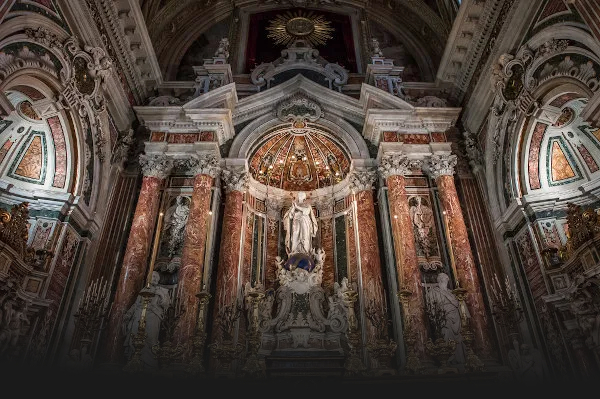
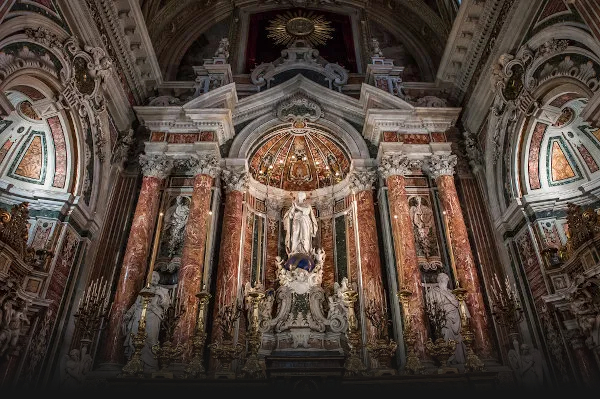
Página inicial

diff --git a/index.html b/index.html
@@ -8,19 +8,46 @@
     <link rel="stylesheet" href="styles/style.css">
 </head>
 <body>
-    <header class="cabecario">
-        <nav class="cabecario__nav">
-            <a class="cabecario__link" href="pages/definicao.html">Onde surgiu?</a>
-            <a class="cabecario__link" href="pages/definicao.html">O que é?</a>
-            <a class="cabecario__link" href="index.html"><img class="cabecario__img" src="img/home.png" alt="Ínicio"></a>
-            <a class="cabecario__link" href="pages/autores.html">Principais autores</a>
-            <a class="cabecario__link" href="pages/obras.html">Obras barrocas</a>
-        </nav>
-    </header>
-    <section class="tema">
-        <h1 class="tema__titulo">Barroco</h1>
-        <p class="tema__texto">Trabalho sobre a escola literária barroca</p>
-    </section>
+    <div class="background">
+        <header class="cabecario">
+            <nav class="cabecario__nav">
+                <a class="cabecario__link" href="pages/definicao.html">Onde surgiu?</a>
+                <a class="cabecario__link" href="pages/definicao.html">O que é?</a>
+                <a class="cabecario__link" href="index.html"><img class="cabecario__img" src="img/home.png" alt="Ínicio"></a>
+                <a class="cabecario__link" href="pages/autores.html">Principais autores</a>
+                <a class="cabecario__link" href="pages/obras.html">Obras barrocas</a>
+            </nav>
+        </header>
+        <section class="tema">
+            <h1 class="tema__titulo">Barroco</h1>
+            <p class="tema__texto">Trabalho sobre a escola literária barroca</p>
+        </section>
+    </div>
+    <main class="conteudo">
+        <div class="sobre">
+            <h2 class="sobre__titulo">Sobre o trabalho:</h2>
+            <p class="sobre__texto">Nesse trabalho iremos falar sobre a escola literária barroco, e destrinchar tudo sobre essa escola literária, como o surgimento, informações sobre, autores e algumas obras.</p>
+        </div>
+        <div class="resumo">
+            <h2 class="resumo__titulo">Resumo sobre barroco:</h2>
+            <ul class="resumo__lista">
+                <li class="resumo__lista-item">
+                    <p class="resumo__texto"><strong class="texto-forte">Principais caracteristicas: </strong>As principais características são: a utilização de cores vibrantes, o uso de luz e sombra, a criação de efeitos dramáticos e a preferência por formas orgânicas e sinuosas. Além disso, as obras barrocas costumam ter temas religiosos.</p>
+                </li>
+                <li class="resumo__lista-item">
+                    <p class="resumo__texto"><strong class="texto-forte">Sobre o barroco: </strong>Barroco é o estilo artístico que floresceu entre o final do século XVI e meados do século XVIII, inicialmente na Itália, difundindo-se em seguida pelos países católicos da Europa e da América, antes de atingir, em uma forma modificada, as áreas protestantes e alguns pontos do Oriente.</p>
+                </li>
+                <li class="resumo__lista-item">
+                    <p class="resumo__texto"><strong class="texto-forte">Origem do barroco: </strong>As manifestações artísticas consideradas barrocas foram produzidas principalmente no século XVII. O traço principal do estilo barroco é a tensão entre espírito e matéria, céu e terra, razão e emotividade, contenção e derramamento, cientificismo e religiosidade</p>
+                </li>
+            </ul>
+        </div>
+    </main>
 
+    <hr/>
+
+    <footer class="rodape">
+        <p class="rodape__texto"><strong class="texto-forte-rodape">Trabalho desenvolvido por:</strong> Arthur, Rebeca, Leticia, Hiago, Maria Fernanda, Matheus, Silas, Antonielle, Gabriela, Isalayla, Ligia, Livia Vitória.</p>
+    </footer>
 </body>
 </html>

diff --git a/styles/style.css b/styles/style.css
@@ -1,5 +1,7 @@
 @import url(cabecario.css);
 @import url(tema.css);
+@import url(resumo.css);
+@import url(rodape.css);
 @import url('https://fonts.googleapis.com/css2?family=DM+Serif+Text:ital@0;1&family=Inter:ital,opsz,wght@0,14..32,100..900;1,14..32,100..900&family=Poppins:wght@300;400;500;700&family=Roboto:ital,wght@0,100;0,300;0,400;0,500;0,700;0,900;1,100;1,300;1,400;1,500;1,700;1,900&display=swap');
 
 * {
@@ -10,18 +12,27 @@
 }
 
 :root {
-    --branco: #F6F6F6;
-    --preto: #1A1A1A;
+    --branco: #EEEEEE;
+    --preto: #151515;
     --preto-escuro: #000000;
     --marrom: #6F4E37;
+    --vermelho-forte: #A91D3A;
 
     --fonte-principal: "Roboto", sans-serif;
-    --fonte-tema: "DM Serif Text", serif;
+    --fonte-secundaria: "DM Serif Text", serif;
+}
+
+.background {
+    background: url(../img/igreja-barroca.jpg) no-repeat;
+    background-size: 150% 100%;
+    background-position: center;
+    padding-bottom: 125px;
 }
 
 body {
-    background: url(../img/igreja-barroca.jpg) no-repeat;
-    background-size: 240% 250%;
     background-color: var(--preto);
-    background-position: center;
+}
+
+.conteudo {
+    padding: 1em;
 }

diff --git a/styles/resumo.css b/styles/resumo.css
@@ -1,0 +1,18 @@
+.sobre__titulo,
+.resumo__titulo {
+    font-family: var(--fonte-secundaria);
+    text-decoration: underline;
+}
+
+.sobre__titulo {
+    margin-bottom: 0.25em;
+}
+
+.sobre__texto {
+    margin-bottom: 2em;
+}
+
+.resumo__lista-item {
+    margin-left: 1em;
+    padding: 0.5em 0;
+}

diff --git a/styles/rodape.css b/styles/rodape.css
@@ -1,0 +1,17 @@
+.rodape {
+    background-color: var(--vermelho-forte);
+    padding: 1em;
+}
+
+.rodape__texto, .texto-forte-rodape {
+    color: var(--branco);
+    font-weight: 500;
+}
+
+.texto-forte-rodape {
+    font-weight: bold;
+}
+
+hr {
+    margin-top: 2.5em;
+}

diff --git a/styles/tema.css b/styles/tema.css
@@ -6,7 +6,7 @@
     text-align: center;
     font-size: 3.5rem;
     font-weight: 400;
-    font-family: var(--fonte-tema);
+    font-family: var(--fonte-secundaria);
 }
 
 .tema__texto {
